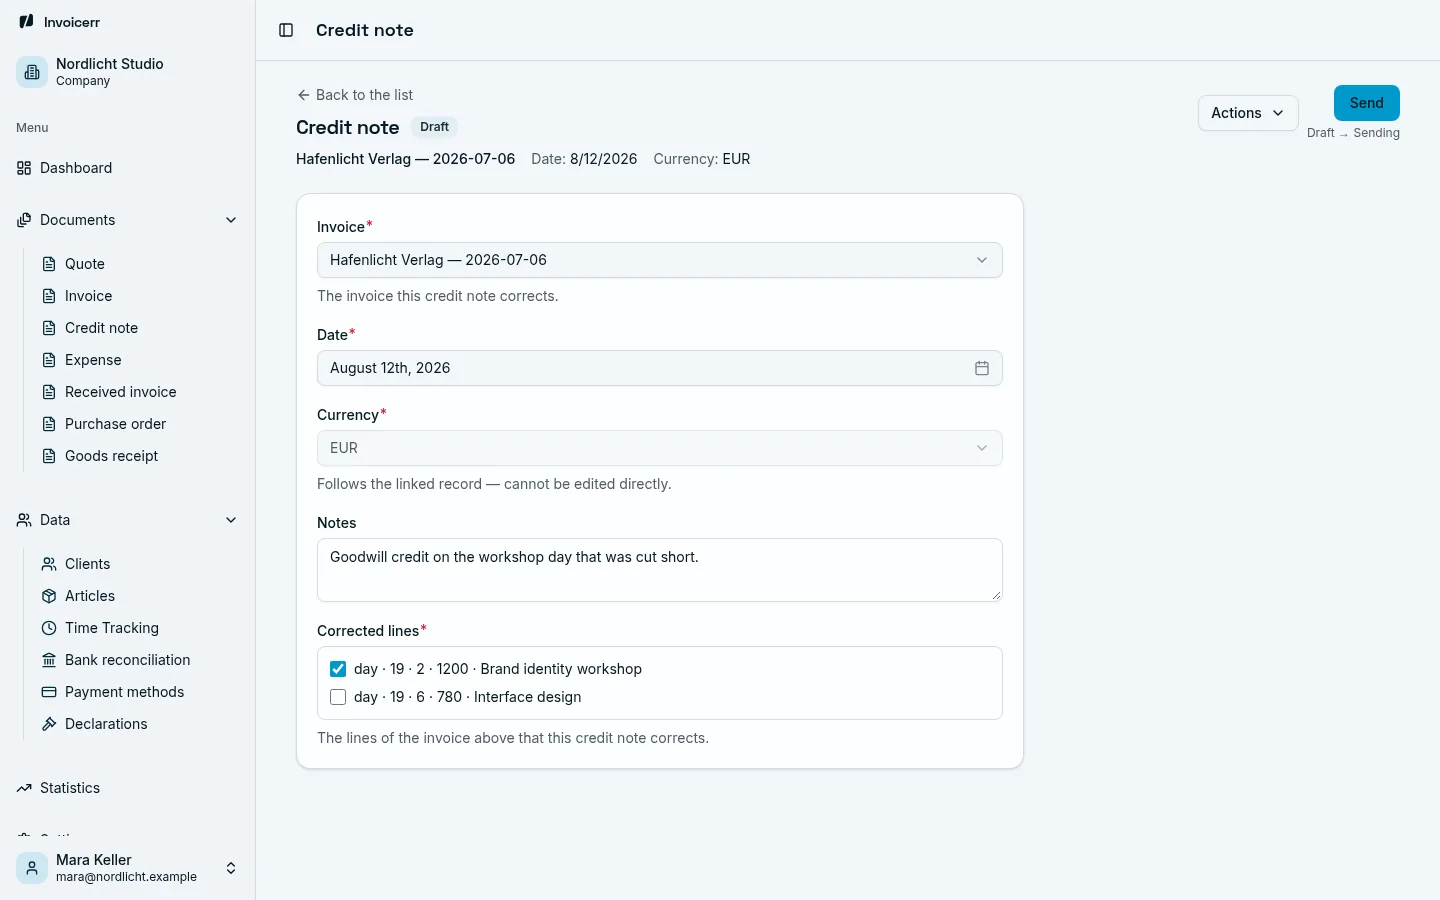
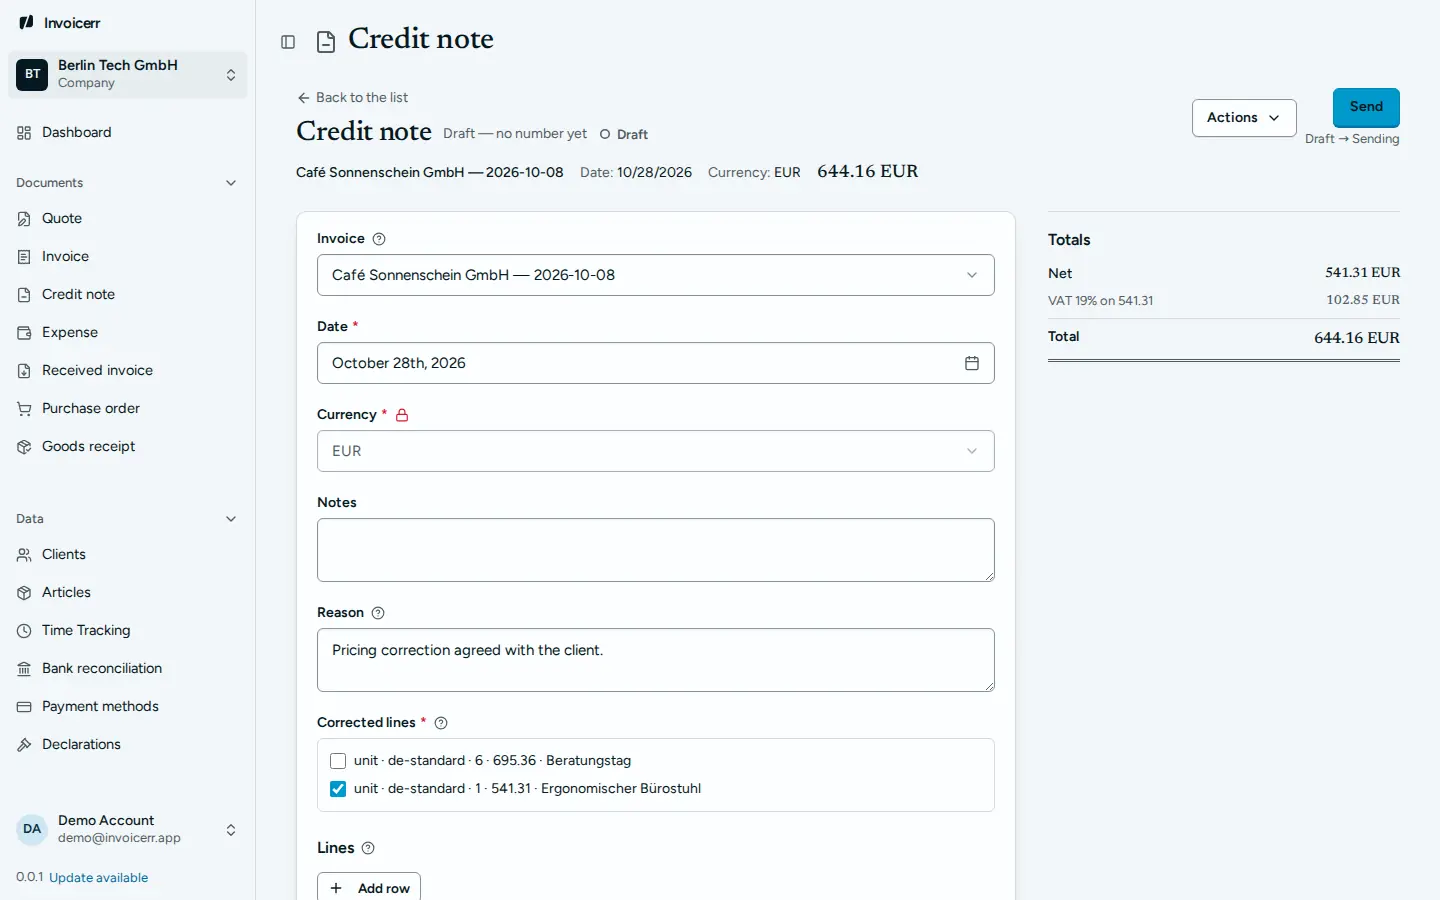
docs: retake the README screenshots on the redesigned interface
All 21 images, same WebP format and sizes, in English on the demo
company. The wizard image becomes invoice-editor.webp, showing the
one-page editor beside its live preview, and the README says so.

Refs #825

Claude-Session: https://claude.ai/code/session_01QTLf9W4XqwTqxxRmqk3QVs

diff --git a/README.md b/README.md
@@ -14,7 +14,7 @@ including the e-invoicing rules of the country you bill from.
 
 - Quotes, invoices, credit notes, purchase orders, goods receipts, expenses and received invoices —
   one document engine, one lifecycle, one list and detail screen for every type.
-- Payments, partial payments, deposits, instalments and settlement badges computed from the record,
+- Payments, partial payments, deposits, instalments and settlement states computed from the record,
   never stored on the document.
 - Clients with their own portal, account statements and aged balance.
 - An article catalogue with stock counts, project time tracking that turns into invoice lines, and
@@ -40,10 +40,10 @@ Invoice list, filtered by status, with the settlement state of each one.
 
 ![Invoice list](./documentation/static/img/readme/invoices.webp)
 
-Creation wizard — lines filled from the article catalogue, VAT rates from the seller country's own
-rate list.
+The editor: every section on one page, VAT rates from the seller country's own rate list, and a live
+preview of the document beside it.
 
-![Invoice creation wizard](./documentation/static/img/readme/invoice-wizard.webp)
+![Invoice editor](./documentation/static/img/readme/invoice-editor.webp)
 
 Invoice detail: totals, settlement and the legal archive with its retention rule.
 
